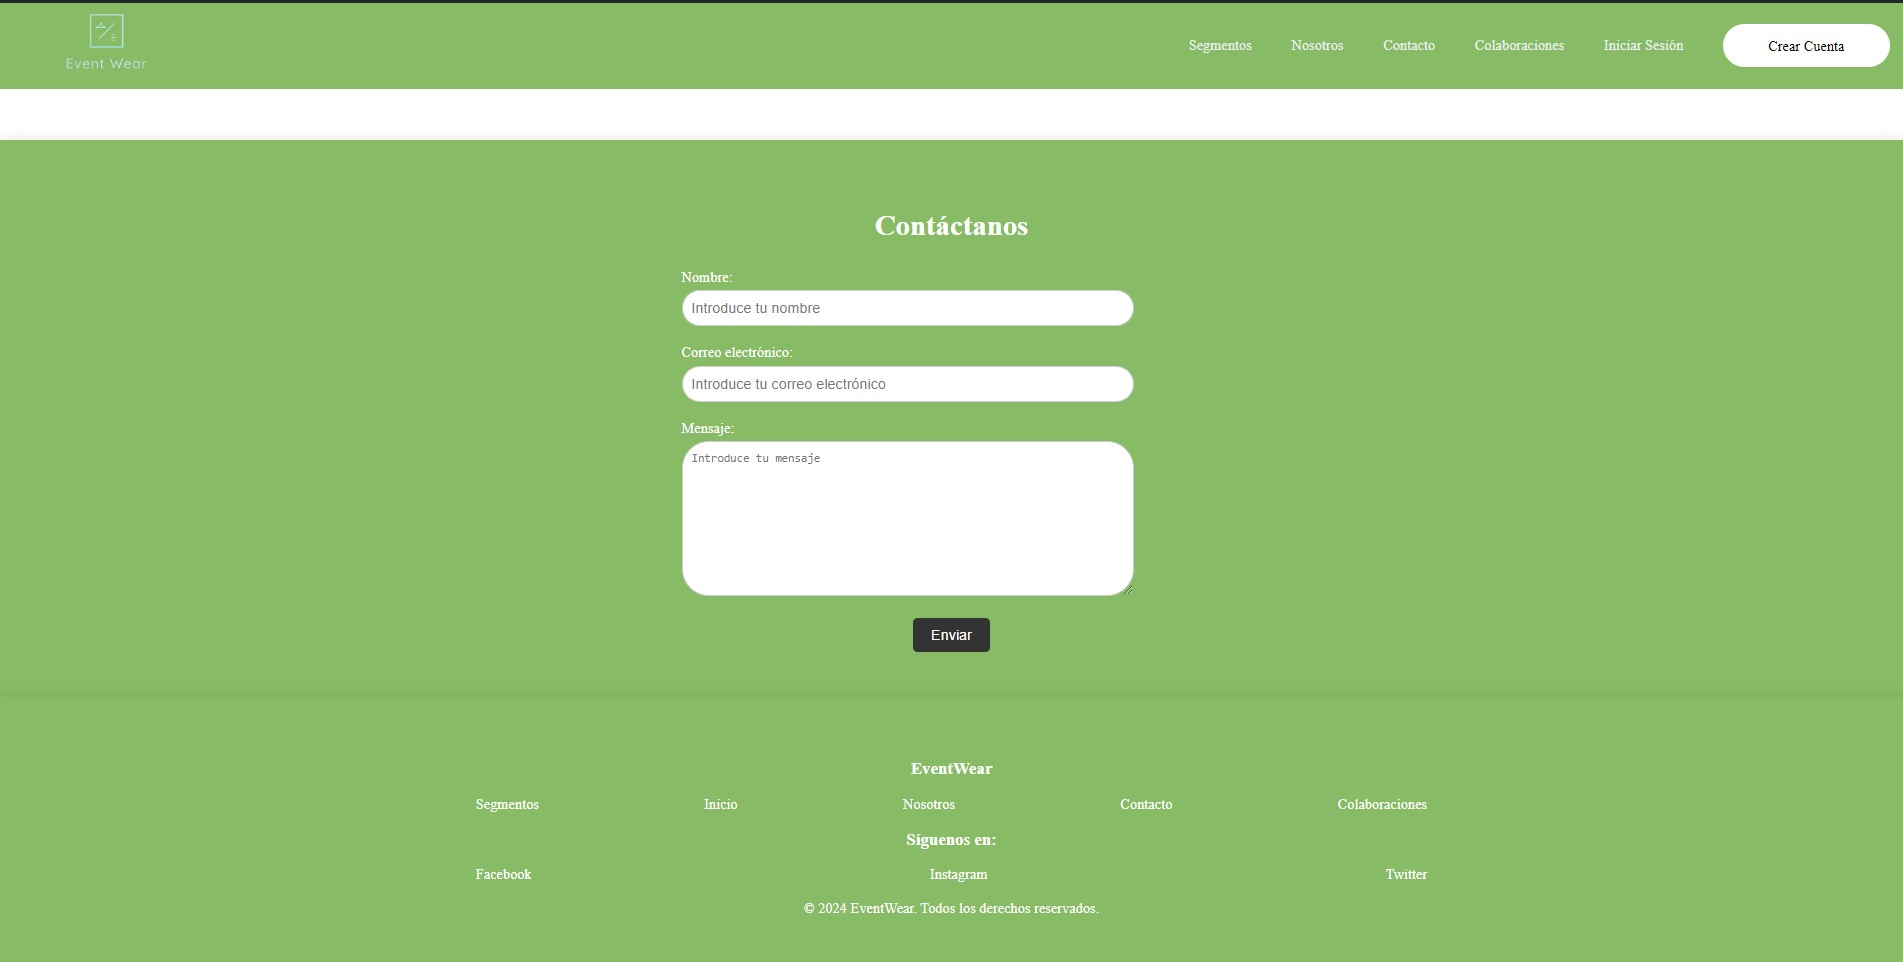
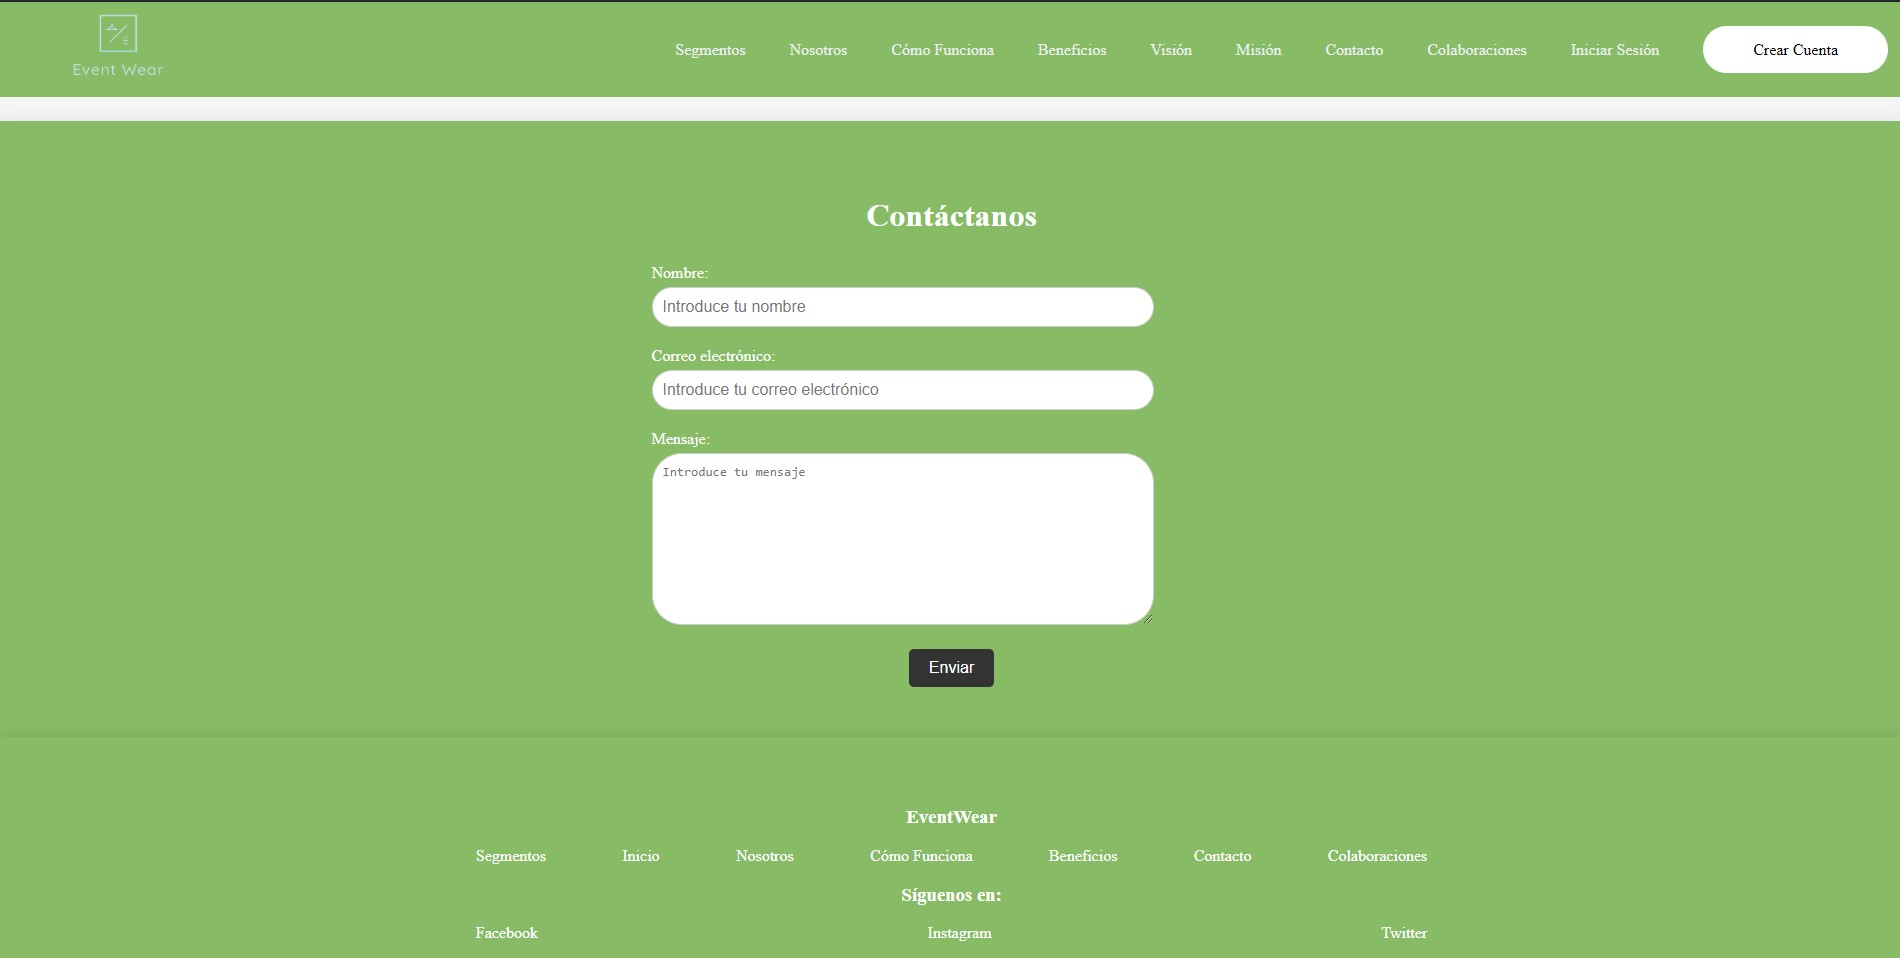
feat: Add new sections to Software Deployment

diff --git a/README.md b/README.md
@@ -1952,11 +1952,17 @@ Durante el primer sprint, se logró un avance parcial en la implementación de l
 ![image](Imagenes/seccion-home.jpg)
 2. Sección Segmentos
 ![image](Imagenes/seccion-segmentos.jpg)
-3. Sección Contactanos
+3. Sección Cómo funciona
+![image](Imagenes/seccion-como-funciona.jpg)
+4. Sección Beneficios
+![image](Imagenes/seccion-beneficios.jpg)
+5. Sección Visión y Misión
+![image](Imagenes/seccion-vision-mision.jpg)
+5. Sección Contactanos
 ![image](Imagenes/seccion-contactanos.jpg)
-4. Sección Iniciar Sesión
+6. Sección Iniciar Sesión
 ![image](Imagenes/seccion-iniciar-sesion.jpg)
-5. Sección Registrarse
+7. Sección Registrarse
 ![image](Imagenes/seccion-registrarse.jpg)
 
 
@@ -1964,11 +1970,26 @@ Durante el primer sprint, se logró un avance parcial en la implementación de l
 Para este primer sprint no fue contemplada la evidencia de documentación de los servicios. 
 #####         **2.1.7. Software Deployment Evidence for Sprint Review.**
 
-![image](Imagenes/software-deploy-evidence-for-sprint-review-image1.jpg)
+En esta primer Sprint, hemos desarrollado una Landing Page. Esta página inicial proporciona información relevante sobre nuestros productos y servicios. Para su desarrollo, hemos utilizado tecnologías web modernas y hemos seguido prácticas de diseño centradas en el usuario para asegurar una experiencia atractiva y funcional para nuestros visitantes. Por ultimo, se realizo el despliegue de la landing page con github pages
 
-![image](Imagenes/seccion-home.jpg)
+Link del despliegue de la landing page: https://si729-2401-ws51-grupo-4.github.io/landing-page/#home
 
-![image](Imagenes/seccion-segmentos.jpg)
+1. Sección home
+![image](Imagenes/seccion-home-desplegado.jpg)
+2. Sección Segmentos
+![image](Imagenes/seccion-segmentos-desplegado.jpg)
+3. Sección Cómo funciona
+![image](Imagenes/seccion-como-funciona-desplegado.jpg)
+4. Sección Beneficios
+![image](Imagenes/seccion-beneficios-desplegado.jpg)
+5. Sección Visión y Misión
+![image](Imagenes/seccion-vision-mision-desplegado.jpg)
+5. Sección Contactanos
+![image](Imagenes/seccion-contactanos-desplegado.jpg)
+6. Sección Iniciar Sesión
+![image](Imagenes/seccion-iniciar-sesion-desplegado.jpg)
+7. Sección Registrarse
+![image](Imagenes/seccion-registrarse-desplegado.jpg)
 
 #####         **2.1.8. Team Collaboration Insights during Sprint.**
 | **Alumno** | **Actividad** |
